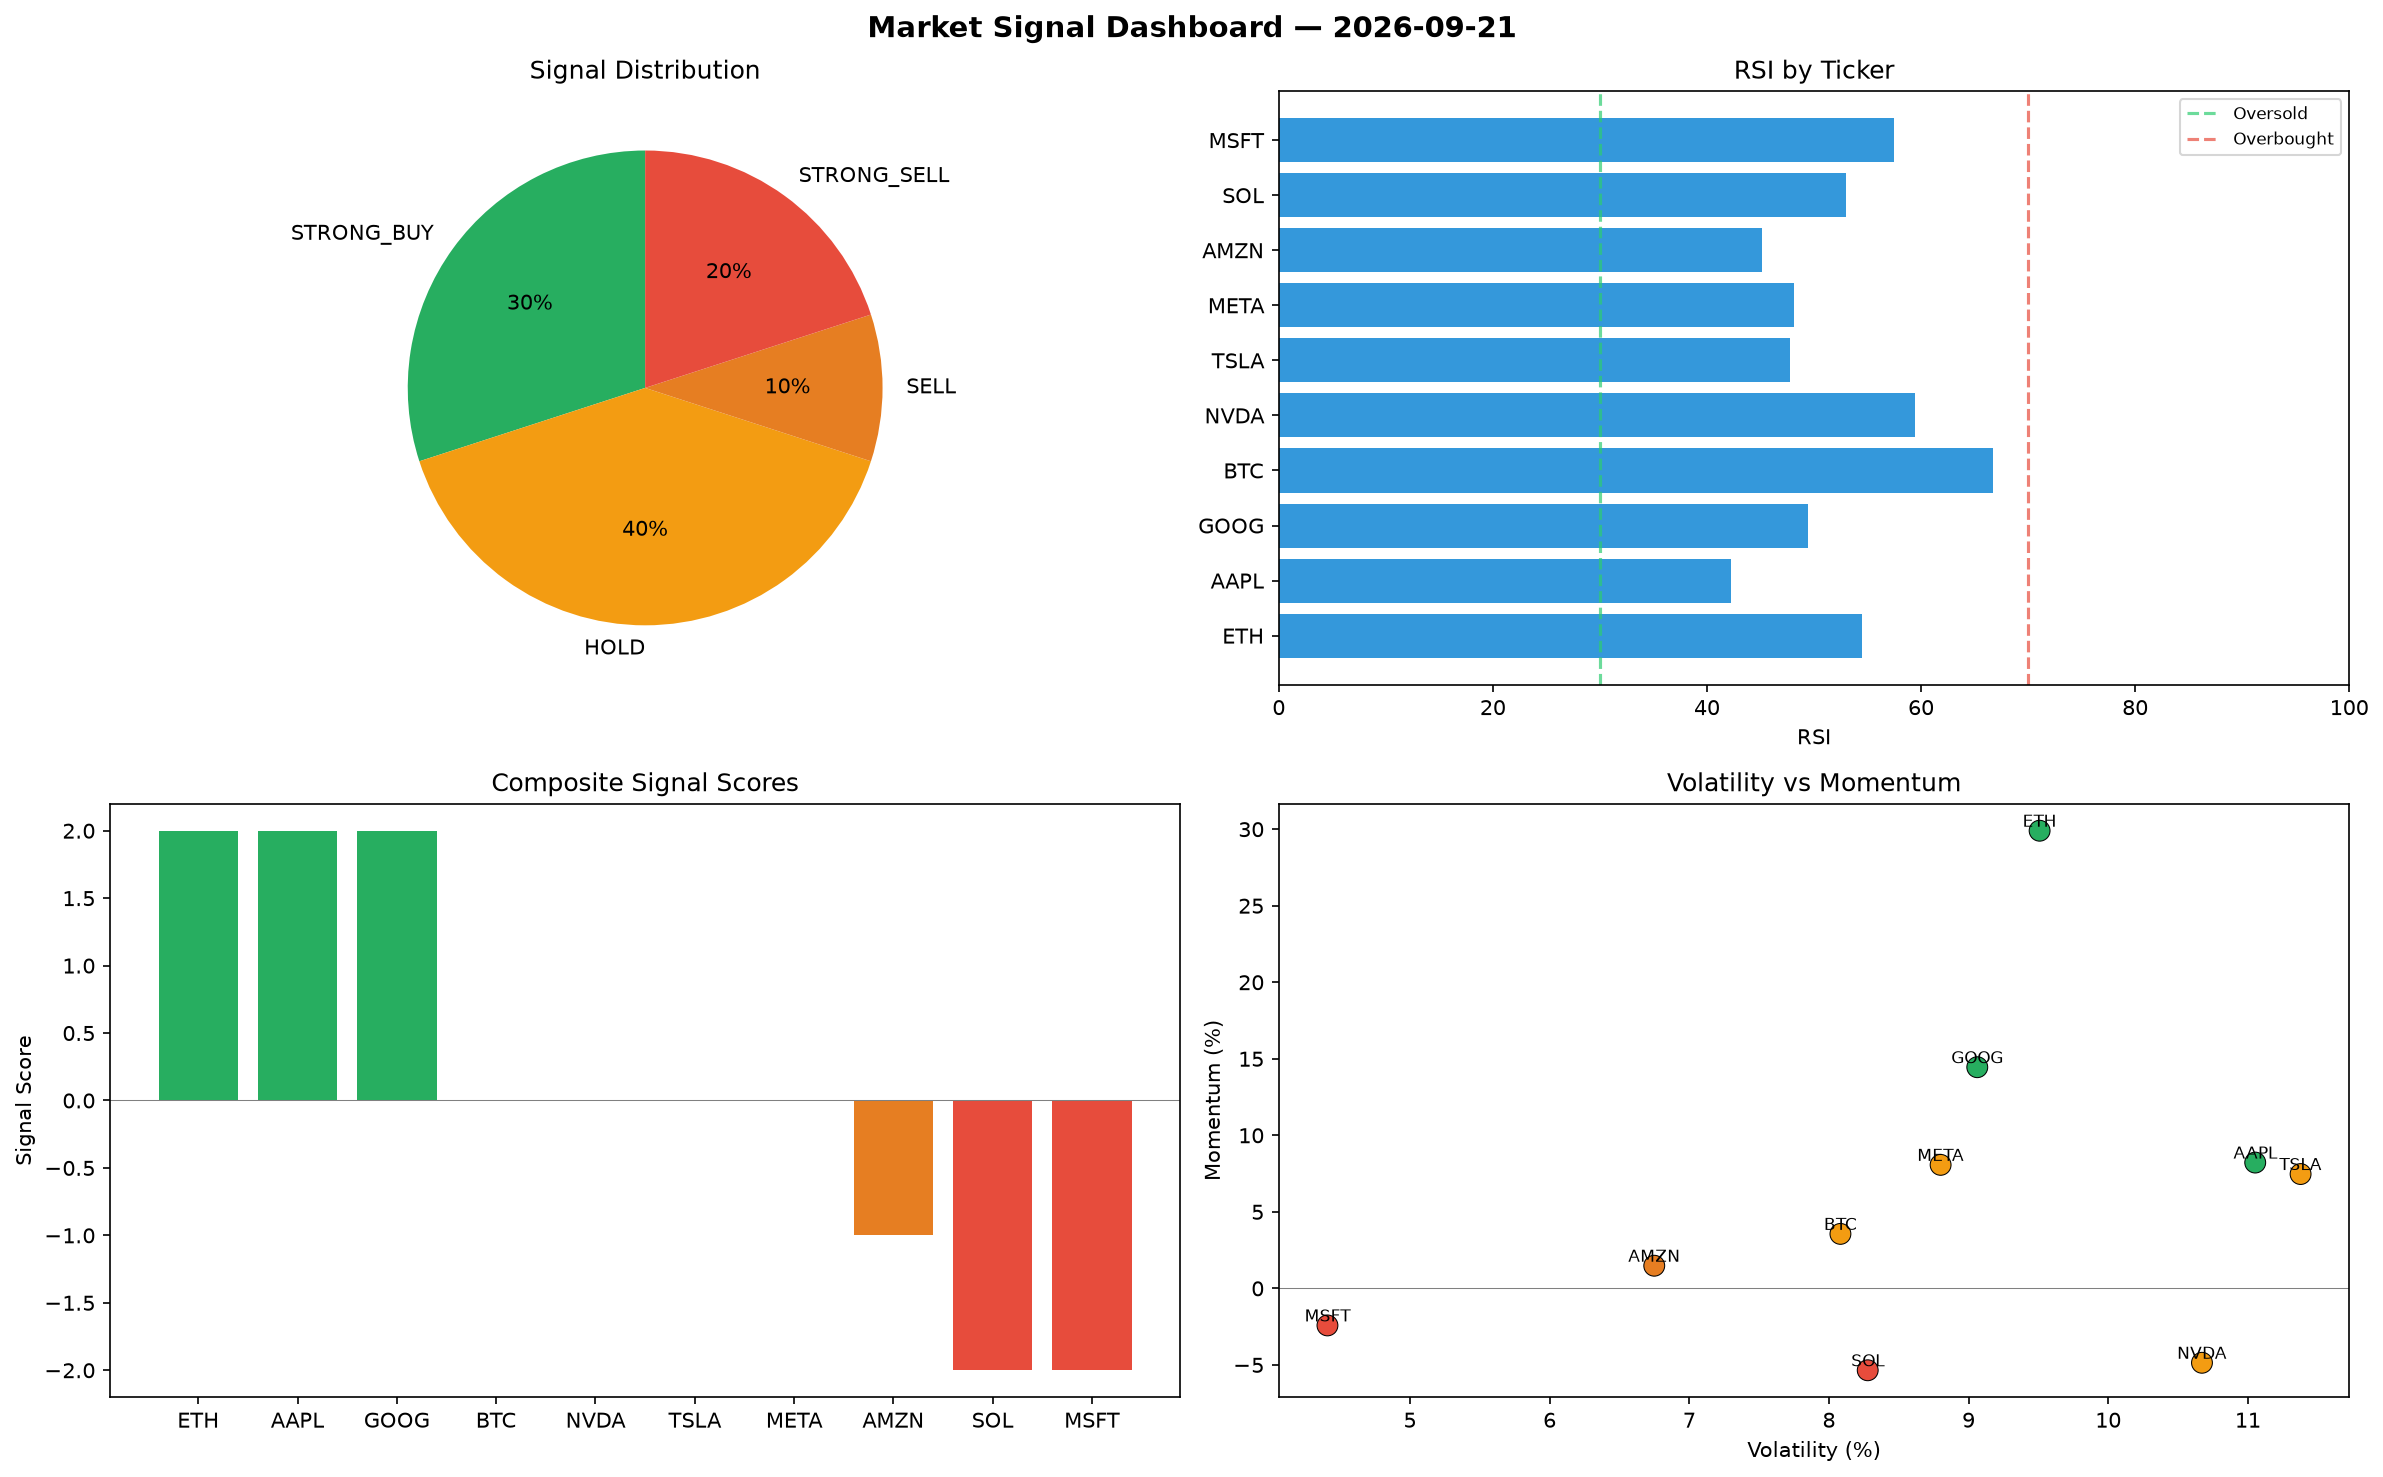
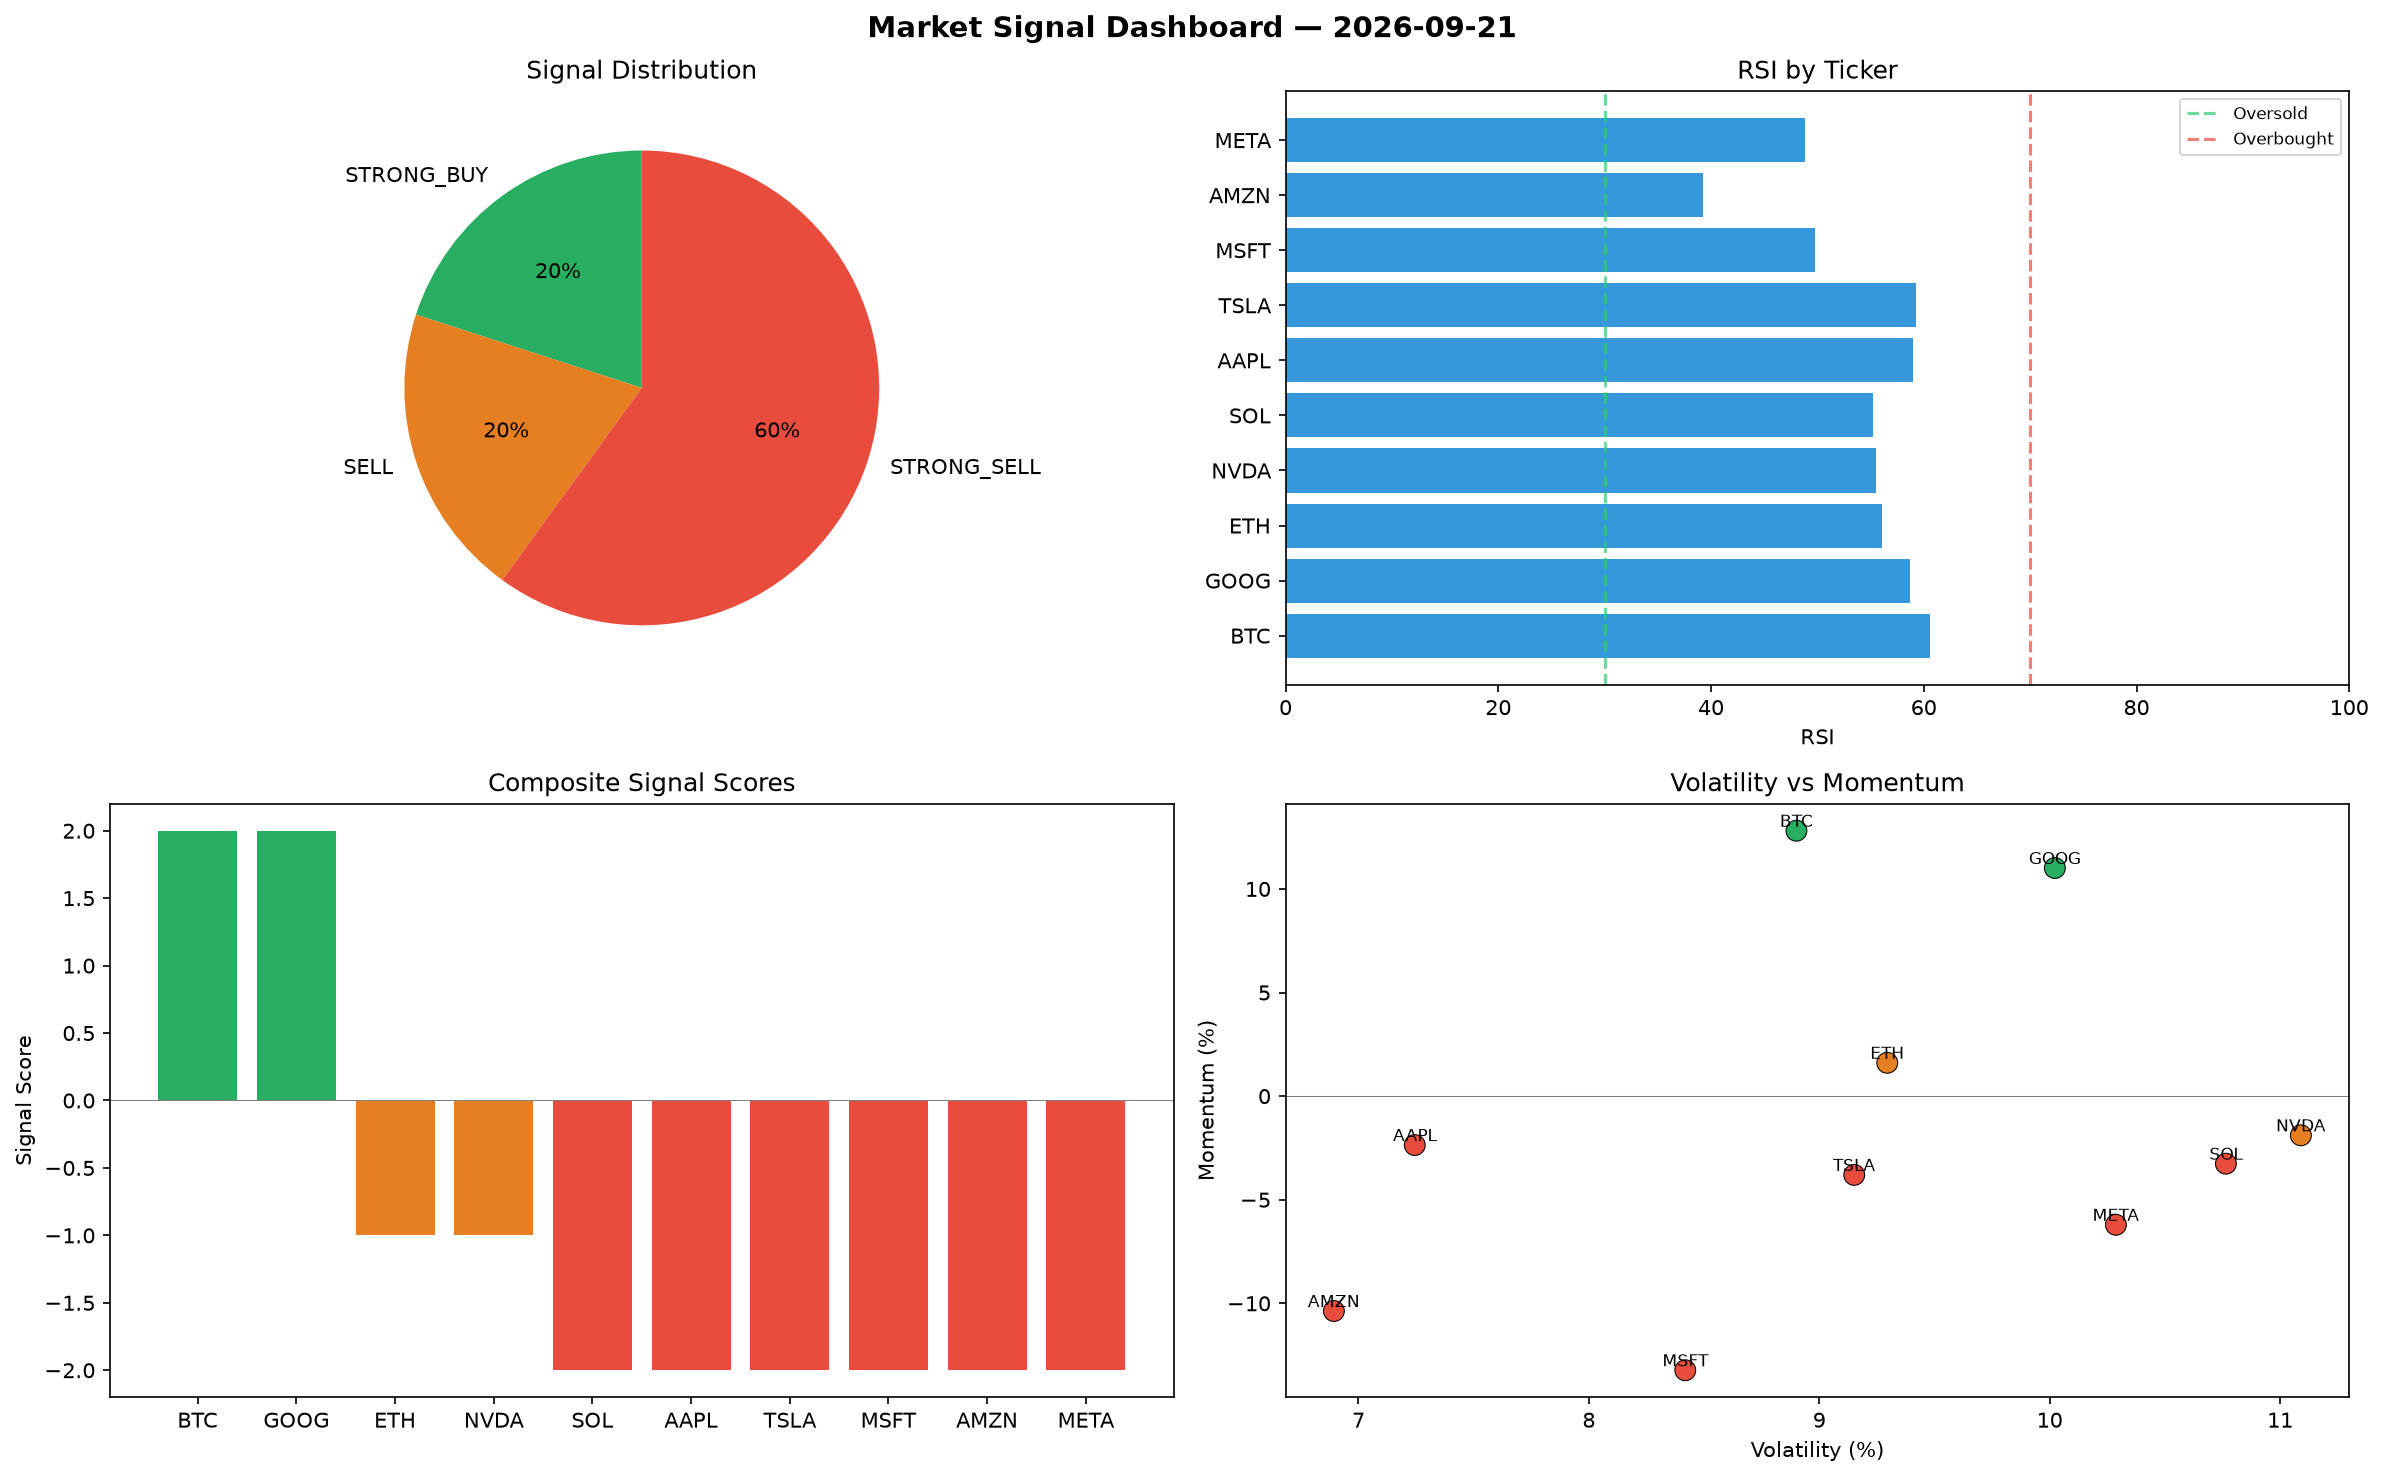
automated-bots: market signals 2026-09-21T19:39

diff --git a/logs/2026-09-21.md b/logs/2026-09-21.md
@@ -1,6 +1,6 @@
 # Market Signal Report — 2026-09-21
 
-**Run ID:** `5b61327e81` | **Buy:** 3 | **Sell:** 3 | **Hold:** 4
+**Run ID:** `6d17d491c7` | **Buy:** 2 | **Sell:** 8 | **Hold:** 0
 
 ![Dashboard](2026-09-21_dashboard.png)
 
@@ -8,28 +8,28 @@
 
 | Ticker | Price | Signal | Score | RSI | Momentum | Confidence |
 |--------|-------|--------|-------|-----|----------|------------|
-| ETH | $1252.52 | **STRONG_BUY** | 2 | 54.45 | 0.299 | 0.5 |
-| AAPL | $1762.22 | **STRONG_BUY** | 2 | 42.24 | 0.0822 | 0.5 |
-| GOOG | $1709.72 | **STRONG_BUY** | 2 | 49.43 | 0.1445 | 0.5 |
-| BTC | $1137.86 | **HOLD** | 0 | 66.68 | 0.0356 | 0.0 |
-| NVDA | $2984.04 | **HOLD** | 0 | 59.46 | -0.0486 | 0.0 |
-| TSLA | $3652.33 | **HOLD** | 0 | 47.78 | 0.0747 | 0.0 |
-| META | $5055.76 | **HOLD** | 0 | 48.11 | 0.0807 | 0.0 |
-| AMZN | $497.85 | **SELL** | -1 | 45.13 | 0.0148 | 0.25 |
-| SOL | $1920.03 | **STRONG_SELL** | -2 | 53.02 | -0.0535 | 0.5 |
-| MSFT | $4461.37 | **STRONG_SELL** | -2 | 57.47 | -0.0242 | 0.5 |
+| BTC | $4135.54 | **STRONG_BUY** | 2 | 60.54 | 0.1281 | 0.5 |
+| GOOG | $4713.83 | **STRONG_BUY** | 2 | 58.66 | 0.1101 | 0.5 |
+| ETH | $2761.16 | **SELL** | -1 | 56.05 | 0.0161 | 0.25 |
+| NVDA | $3098.59 | **SELL** | -1 | 55.54 | -0.0189 | 0.25 |
+| SOL | $753.77 | **STRONG_SELL** | -2 | 55.27 | -0.0326 | 0.5 |
+| AAPL | $4518.39 | **STRONG_SELL** | -2 | 59.01 | -0.0236 | 0.5 |
+| TSLA | $655.72 | **STRONG_SELL** | -2 | 59.26 | -0.038 | 0.5 |
+| MSFT | $2373.95 | **STRONG_SELL** | -2 | 49.78 | -0.1323 | 0.5 |
+| AMZN | $2025.34 | **STRONG_SELL** | -2 | 39.28 | -0.1037 | 0.5 |
+| META | $1568.76 | **STRONG_SELL** | -2 | 48.86 | -0.0621 | 0.5 |
 
 ## Delta vs Yesterday
 
 | Ticker | Today | Yesterday | Price Change | Signal Changed |
 |--------|-------|-----------|-------------|----------------|
-| ETH | STRONG_BUY | HOLD | 📉 -61.98% | ⚠ YES |
-| AAPL | STRONG_BUY | STRONG_SELL | 📉 -0.21% | ⚠ YES |
-| GOOG | STRONG_BUY | HOLD | 📈 17.24% | ⚠ YES |
-| BTC | HOLD | STRONG_BUY | 📉 -77.62% | ⚠ YES |
-| NVDA | HOLD | BUY | 📉 -36.93% | ⚠ YES |
-| TSLA | HOLD | STRONG_BUY | 📈 27.41% | ⚠ YES |
-| META | HOLD | STRONG_SELL | 📈 333.89% | ⚠ YES |
-| AMZN | SELL | HOLD | 📉 -14.7% | ⚠ YES |
-| SOL | STRONG_SELL | STRONG_SELL | 📈 24.06% | — |
-| MSFT | STRONG_SELL | SELL | 📈 622.14% | ⚠ YES |
+| BTC | STRONG_BUY | STRONG_BUY | 📉 -18.66% | — |
+| GOOG | STRONG_BUY | HOLD | 📈 223.24% | ⚠ YES |
+| ETH | SELL | HOLD | 📉 -16.19% | ⚠ YES |
+| NVDA | SELL | BUY | 📉 -34.5% | ⚠ YES |
+| SOL | STRONG_SELL | STRONG_SELL | 📉 -51.3% | — |
+| AAPL | STRONG_SELL | STRONG_SELL | 📈 155.88% | — |
+| TSLA | STRONG_SELL | STRONG_BUY | 📉 -77.13% | ⚠ YES |
+| MSFT | STRONG_SELL | SELL | 📈 284.26% | ⚠ YES |
+| AMZN | STRONG_SELL | HOLD | 📈 247.03% | ⚠ YES |
+| META | STRONG_SELL | STRONG_SELL | 📈 34.63% | — |
